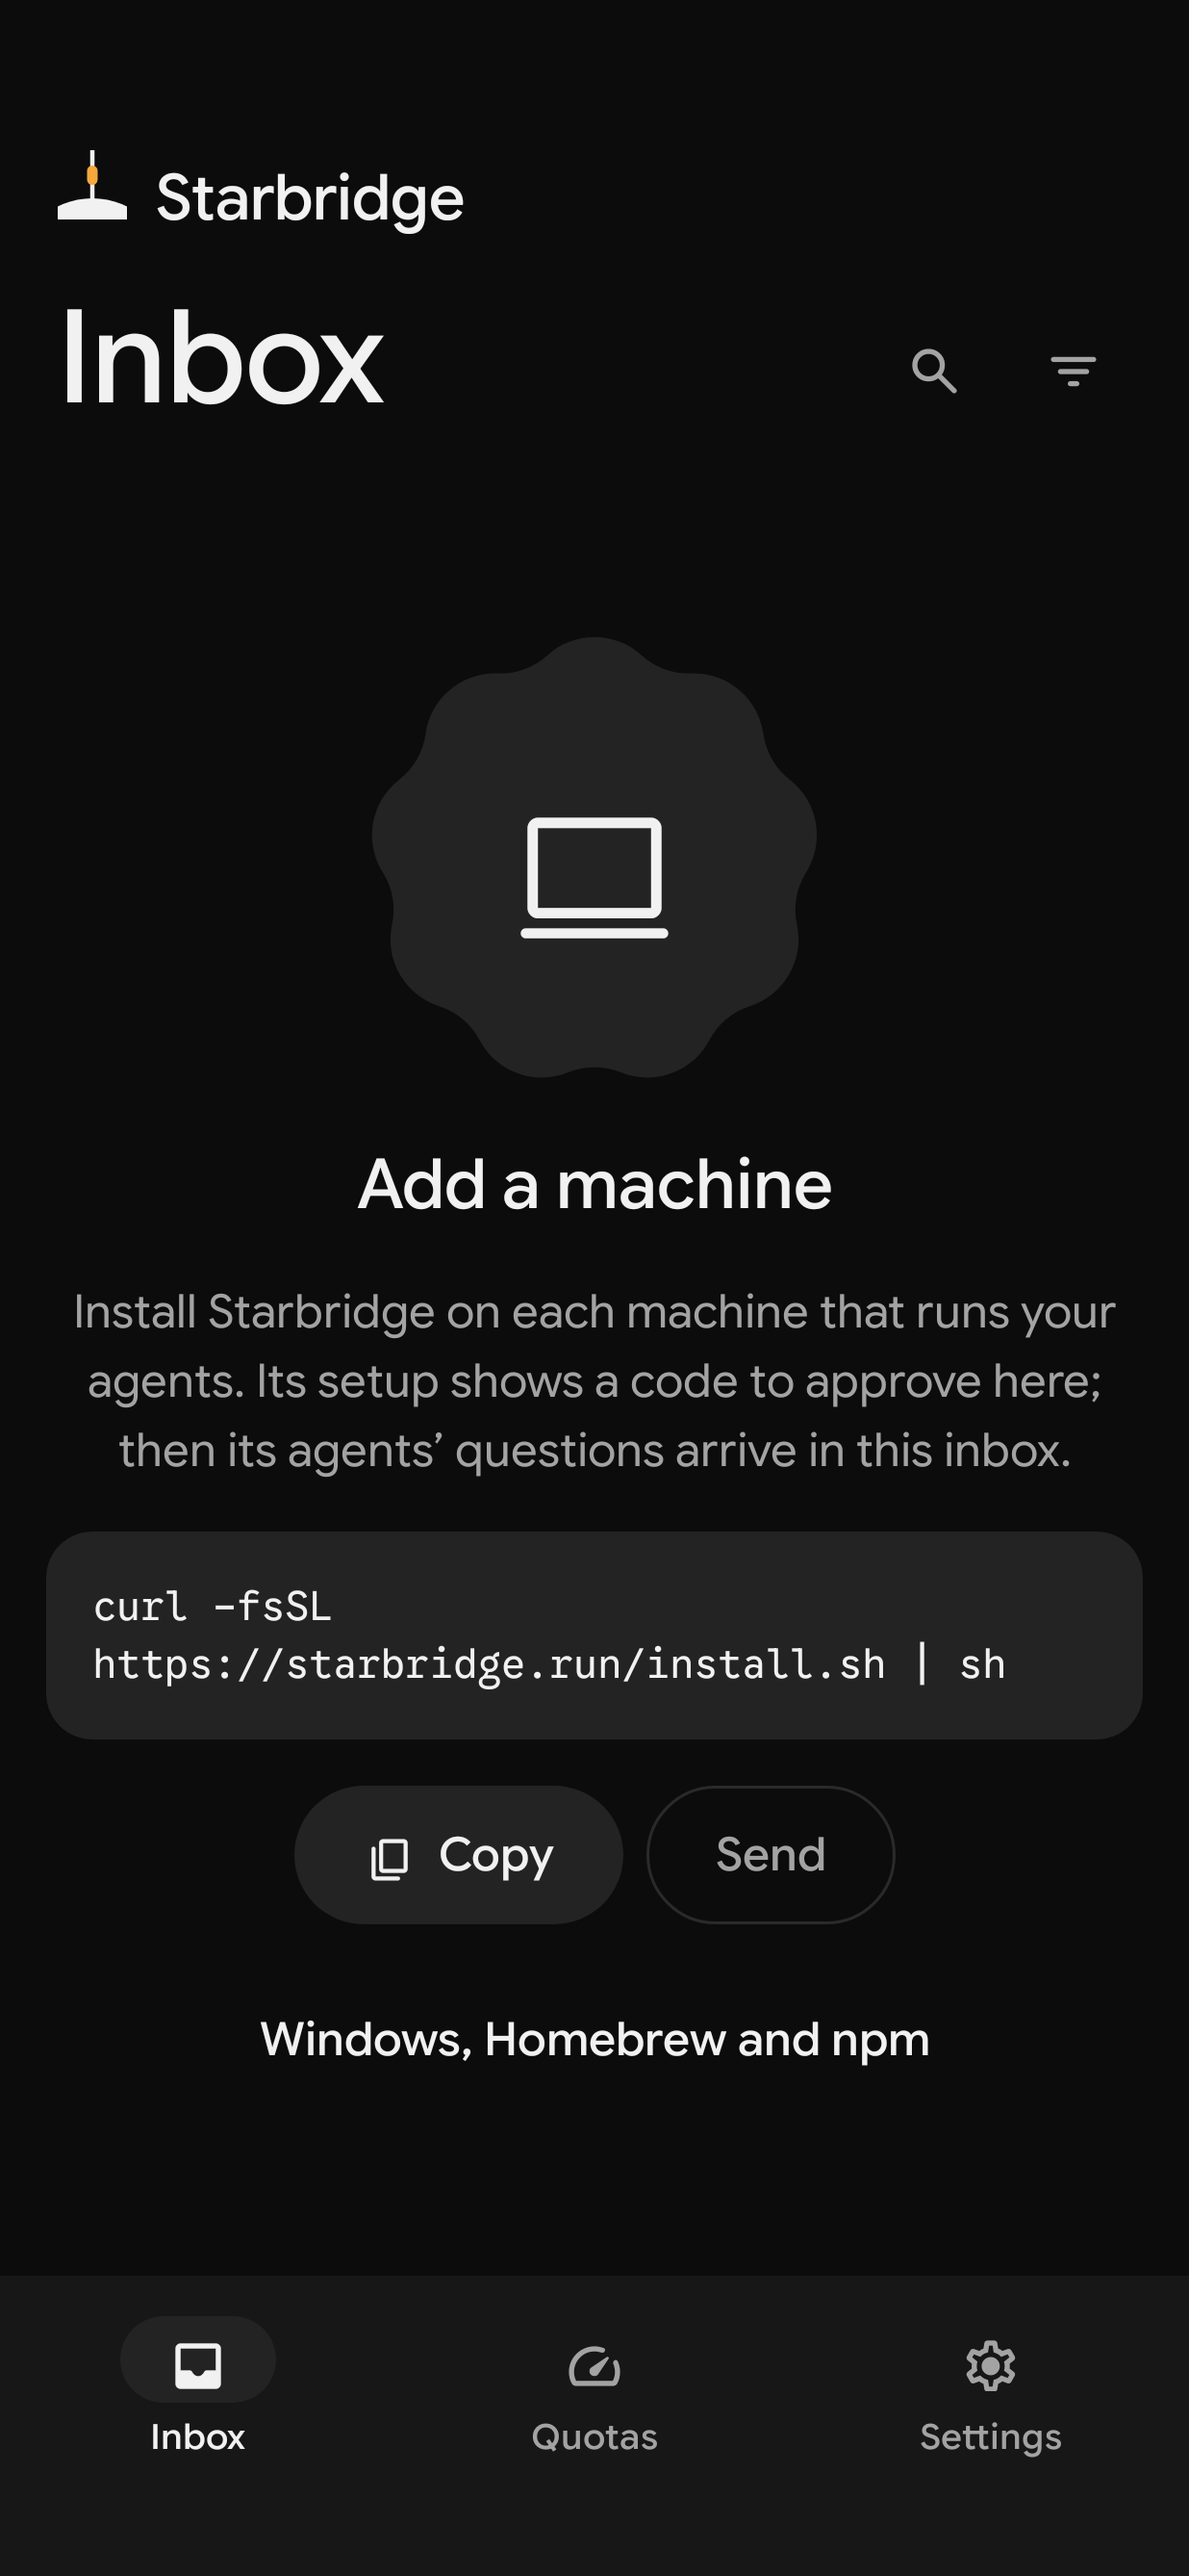
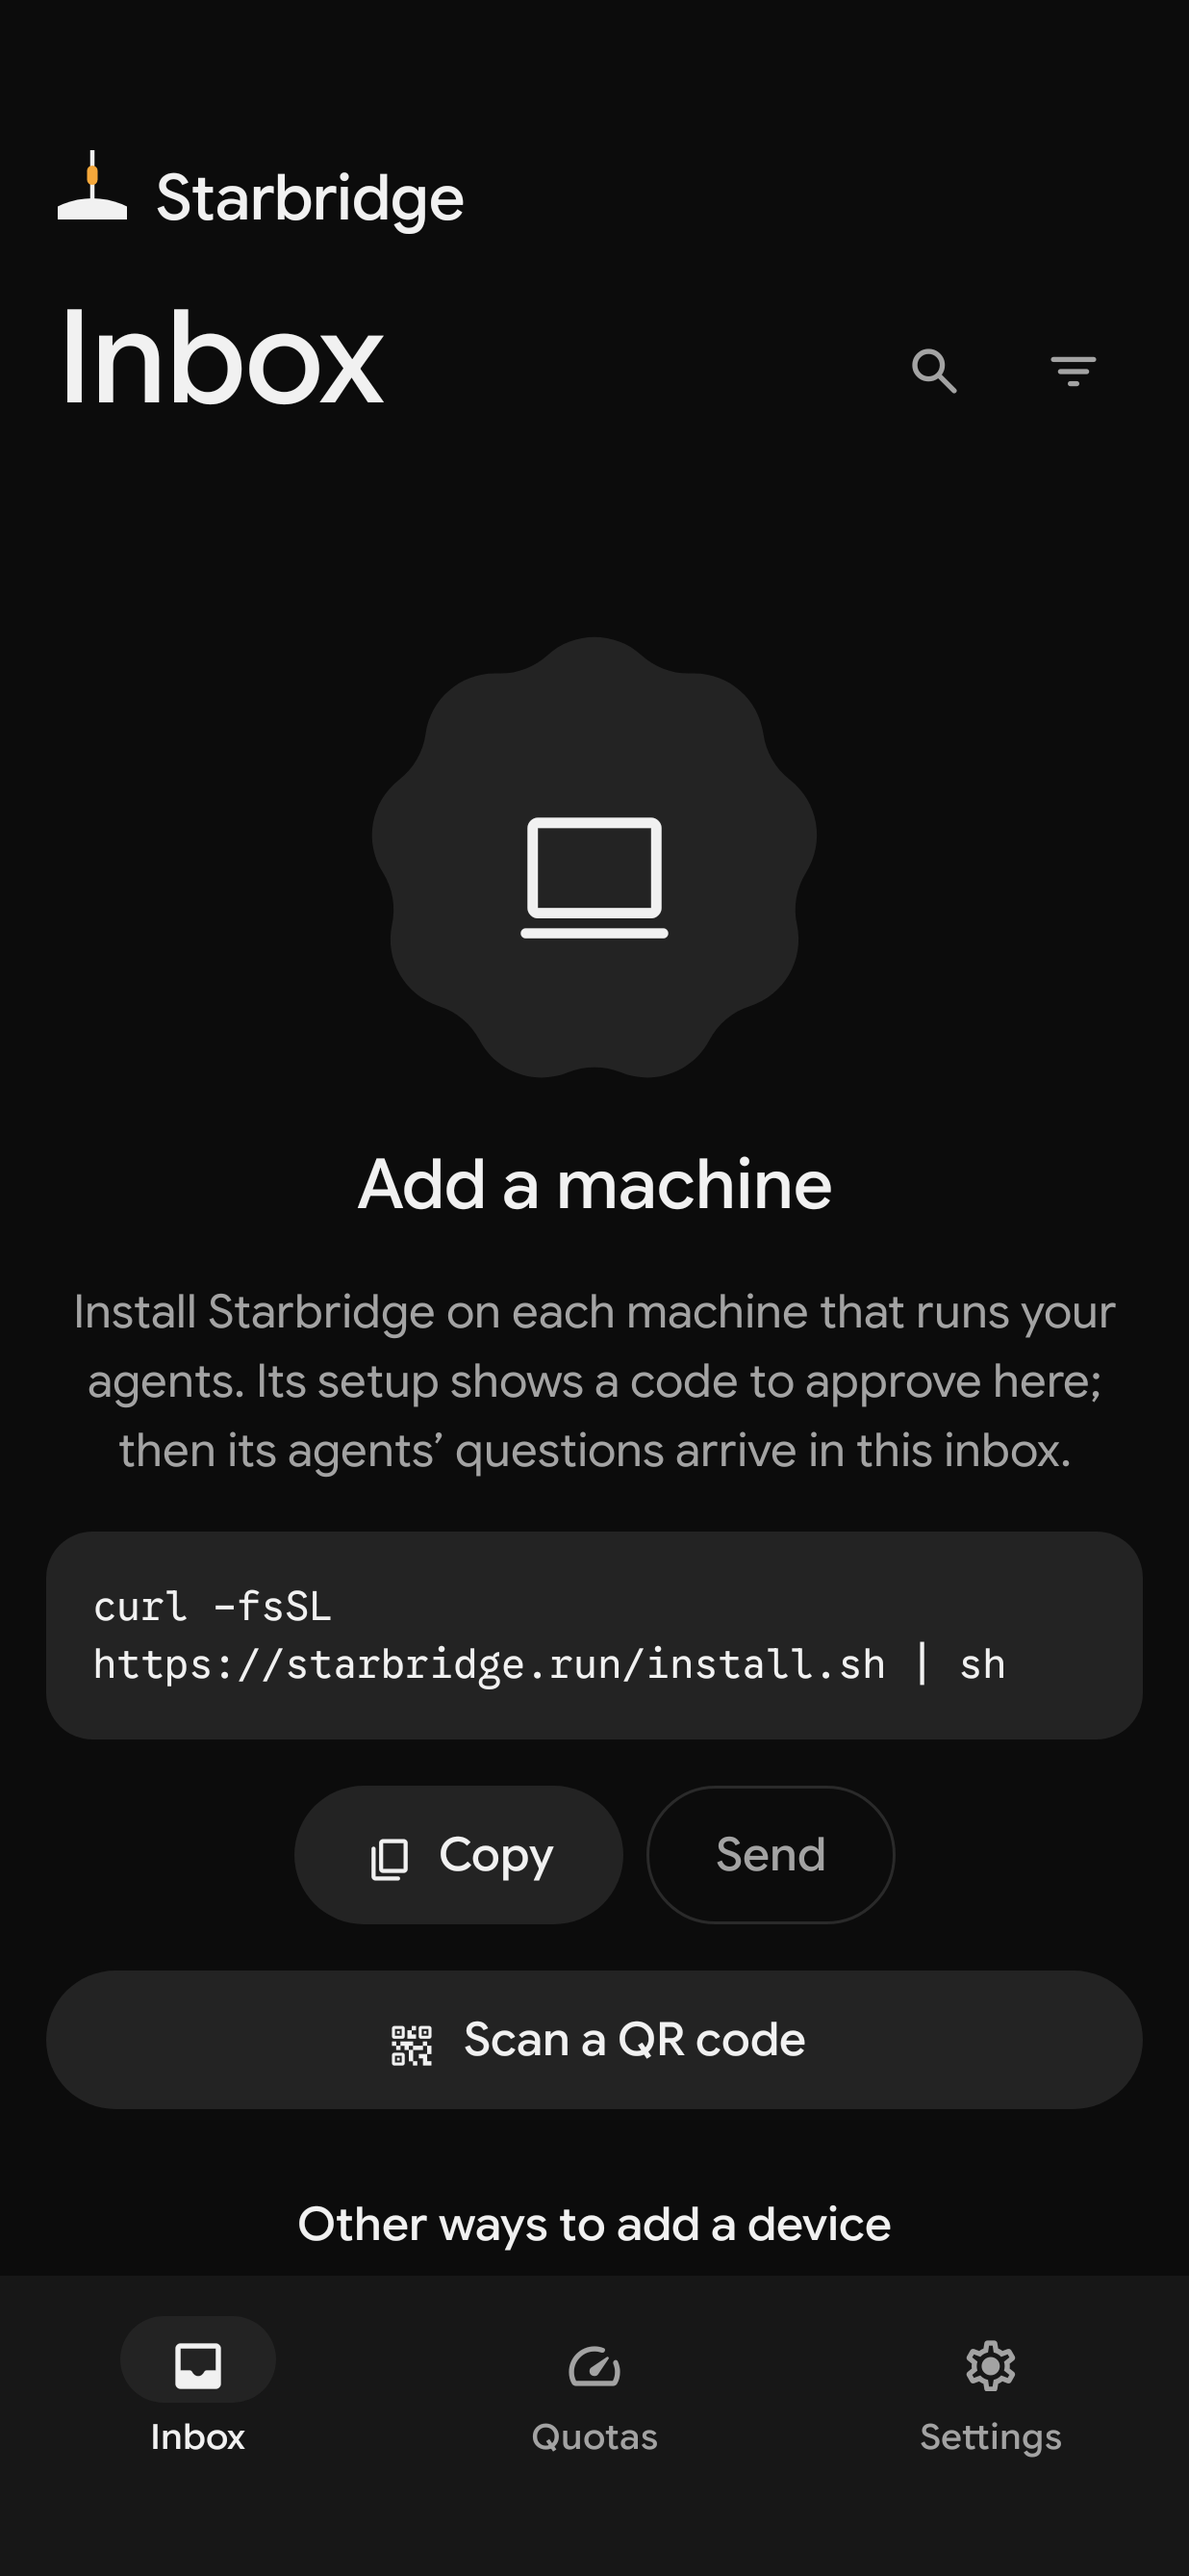
Web and Android: the empty inbox pairs the first machine one tap away (#1367)
With no machine yet, the inbox's "Add a machine" now offers Scan a QR code
and Other ways to add a device on Android, and Add a device on the web,
the same pages Devices opens. A tester whose pairing link did not open
the app had to find the scanner under Settings, then Devices.

diff --git a/android/app/src/main/kotlin/dev/starbridge/app/ui/inbox/InboxScreen.kt b/android/app/src/main/kotlin/dev/starbridge/app/ui/inbox/InboxScreen.kt
@@ -112,6 +112,7 @@ import dev.starbridge.app.ui.Refresh
 import dev.starbridge.app.ui.Sym
 import dev.starbridge.app.ui.openNotificationSettings
 import dev.starbridge.app.ui.Symbol
+import dev.starbridge.app.ui.pairing.rememberScanner
 import dev.starbridge.app.ui.fieldColors
 import dev.starbridge.app.ui.groupGap
 import dev.starbridge.app.ui.groupShape
@@ -232,6 +233,10 @@ fun InboxScreen(
     notificationsOff: Boolean = false,
     /** The account has no active machine yet: the empty inbox says how to add one (#610). */
     noMachine: Boolean = false,
+    /** A machine's code the empty inbox's scanner read (#1367). */
+    onScan: (String) -> Unit = {},
+    /** Add a device, from the empty inbox, to type a code; also where a phone that cannot scan goes. */
+    onAddDevice: () -> Unit = {},
     /** Where a swipe's snooze offers Undo (#692). */
     snackbar: SnackbarHostState? = null,
 ) {
@@ -309,7 +314,7 @@ fun InboxScreen(
         if (notificationsOff && view.remindOff) item(key = "notifications-off") { NotificationsOff { onView(view.copy(remindOff = false)) } }
         runs(shownRuns, now, view.runsOpen, { onView(view.copy(runsOpen = it)) }, dismissRun, segmented = view.grouping != Grouping.None)
         if (needs.isEmpty()) {
-            if (shownRuns.isEmpty()) item(key = "empty") { if (noMachine) NoMachine() else Empty() }
+            if (shownRuns.isEmpty()) item(key = "empty") { if (noMachine) NoMachine(onScan, onAddDevice) else Empty() }
         } else {
             when (view.grouping) {
                 // In the order of each machine's most pressing need; runs keep their section above (#835).
@@ -461,10 +466,14 @@ private fun Empty() {
     }
 }
 
-/** A new account's empty inbox: the install command to copy or send to the machine. */
+/**
+ * A new account's empty inbox: the install command to copy or send to the machine, then the
+ * scanner for the QR code its setup shows, one tap away (#1367).
+ */
 @OptIn(ExperimentalMaterial3ExpressiveApi::class)
 @Composable
-private fun NoMachine() {
+private fun NoMachine(onScan: (String) -> Unit, onAddDevice: () -> Unit) {
+    val scan = rememberScanner(onResult = onScan, onError = { onAddDevice() })
     val context = LocalContext.current
     val clipboard = LocalClipboard.current
     val scope = rememberCoroutineScope()
@@ -497,6 +506,19 @@ private fun NoMachine() {
                 onClick = { runCatching { context.startActivity(Intent.createChooser(Intent(Intent.ACTION_SEND).setType("text/plain").putExtra(Intent.EXTRA_TEXT, INSTALL), null)) } },
                 modifier = Modifier.heightIn(min = Sizes.tap),
             ) { Text("Send", style = StarbridgeTheme.type.action) }
+        }
+        // As in Devices, and above the fold: a machine's QR code, else its code typed under Add a device.
+        FilledTonalButton(
+            onClick = scan,
+            colors = ButtonDefaults.filledTonalButtonColors(containerColor = MaterialTheme.colorScheme.surfaceContainerHighest, contentColor = MaterialTheme.colorScheme.onSurface),
+            modifier = Modifier.fillMaxWidth().height(Sizes.tap),
+        ) {
+            Symbol(Sym.Qr, size = 20.dp)
+            Spacer(Modifier.width(Spacing.s2))
+            Text("Scan a QR code", style = StarbridgeTheme.type.action)
+        }
+        TextButton(onClick = onAddDevice, modifier = Modifier.heightIn(min = Sizes.tap)) {
+            Text("Other ways to add a device", style = StarbridgeTheme.type.action)
         }
         TextButton(onClick = { openLink(context, INSTALL_DOCS) }, modifier = Modifier.heightIn(min = Sizes.tap)) {
             Text("Windows, Homebrew and npm", style = StarbridgeTheme.type.action)

diff --git a/web/src/components/Inbox.tsx b/web/src/components/Inbox.tsx
@@ -1,5 +1,6 @@
 "use client";
 
+import Link from "next/link";
 import { useEffect, useLayoutEffect, useMemo, useRef, useState, useSyncExternalStore } from "react";
 import { drafts } from "@/lib/drafts";
 import {
@@ -941,7 +942,7 @@ function ViewMenu({
   );
 }
 
-/** The empty inbox of an account with no machine: what to install, where. */
+/** The empty inbox of an account with no machine: what to install, where, and Add a device. */
 function NoMachine() {
   return (
     <div className={s.noMachine}>
@@ -951,6 +952,12 @@ function NoMachine() {
         here; then its agents' questions arrive in this inbox.
       </p>
       <InstallBox />
+      {/* Its code, typed or from a pairing link, one tap away (#1367). */}
+      <div>
+        <Link href="/settings/devices/add" className={`t-meta ${ui.btn} ${ui.sm}`}>
+          Add a device
+        </Link>
+      </div>
       <p className={`t-small ${s.noMachineText}`}>
         What setup does: <a href="/docs">the docs</a>
       </p>

diff --git a/web/e2e/run.ts b/web/e2e/run.ts
@@ -584,14 +584,10 @@ async function main() {
   await services.waitFor(/"event":"subscribed"/);
   await page.getByRole("button", { name: "Turn on notifications" }).waitFor({ state: "detached" });
 
-  step("approve `starbridge pair` from the Devices page");
+  step("approve `starbridge pair` from the empty inbox's Add a device (#1367)");
   const machineHome = join(tmp, "machine");
   const pair = cli("pair", ["pair", "--name", "devbox"], machineHome);
   const code = (await pair.waitFor(/Pairing code: (\S+)/))[1] as string;
-  await page
-    .getByRole("navigation", { name: "Main" })
-    .getByRole("link", { name: "Settings" })
-    .click();
   await follow(page, page.getByRole("link", { name: "Add a device" }), "/settings/devices/add");
   await page.getByLabel("Pair a machine or device").fill(code);
   await page.getByRole("button", { name: "Check code" }).click();

diff --git a/android/app/src/main/kotlin/dev/starbridge/app/ui/Root.kt b/android/app/src/main/kotlin/dev/starbridge/app/ui/Root.kt
@@ -330,6 +330,8 @@ fun Main(decisions: List<Decision>, notice: StateFlow<String?>, dismiss: () -> U
                             notificationsOff = notificationsOff,
                             // Members load with the directory, which always holds this phone.
                             noMachine = members.isNotEmpty() && members.none { it.kind == Kind.Machine },
+                            onScan = { devices.actions.lookUp(it); backStack.add(AddDeviceKey) },
+                            onAddDevice = { backStack.add(AddDeviceKey) },
                             snackbar = host,
                         )
                     }

diff --git a/spec/parity.md b/spec/parity.md
@@ -32,6 +32,7 @@ opens an issue for each client the row says should follow.
 | Update screen / update notice | yes (426 shows a reload-only screen) | yes (#497: "Update Starbridge" screen) | yes (auto-updater from GitHub Releases; 426 as web) | yes (#1122: 426 shows "Update Starbridge"; answers stay in the outbox) |
 | Recovery key: copy / save | yes (Copy the key; saved checkbox) | yes (copy to clipboard, #817; save) | yes (as web) | yes at first-device setup (#1116: Copy, clearing after a minute, and "I stored this key"; no Save, since iOS lets no app add a password to the password manager); Replace in Devices (#1240), with the same Copy |
 | Devices list (notifies state, app icon, Revoke) | yes | yes | yes | yes (#1238: Settings → Devices and machines) |
+| Inbox with no machine (install command, then pair it from there) | yes (#610; Add a device, #1367) | yes (#610; Scan a QR code and Other ways to add a device, #1367) | yes (as web) | not yet (#1370) |
 | Pairing: show QR for a new phone | yes | yes | yes | yes (#1239) |
 | Pairing: scan a QR | no (no scanner in web) | yes (Play services code scanner) | no (as web) | yes (VisionKit: to join this iPhone, #1105; a machine's or another device's code in Devices, with the check key, #1239) |
 | Pairing: link (`/pair#code`) | yes | yes (App Link and `starbridge://pair`) | yes (`starbridge://pair`) | yes (`starbridge://pair`, #1239; the https link opens the web page until the app claims it, #1115) |

diff --git a/spec/machines.md b/spec/machines.md
@@ -86,6 +86,12 @@
   A link from another server that this one doesn't know names that server, "This code is from
   starbridge.run, and this phone is signed in to …", instead of "No pairing with this code"
   (#671). Only a failed lookup says it, since a server can answer under several names.
+- **The empty inbox pairs the first machine** (#610, #1367). While the account has no machine,
+  the inbox shows "Add a machine" with the install command in place of "Nothing needs you", and
+  under it the way to pair the machine that setup then shows: Scan a QR code on Android, then
+  Other ways to add a device, and Add a device on the web, which has no scanner. A tester whose
+  pairing link did not open the app had to find the scanner under Settings, then Devices. Each
+  opens the same Add a device as Devices, with the same words.
 - **Setup** (`cli/src/setup/`; #68, #239, #245) installs the CodexBar release this Starbridge
   release pins, taking the static musl build where the glibc one would not start, and
   `starbridge update` moves that install to the new binary's pin (#568). Each release PR pins
